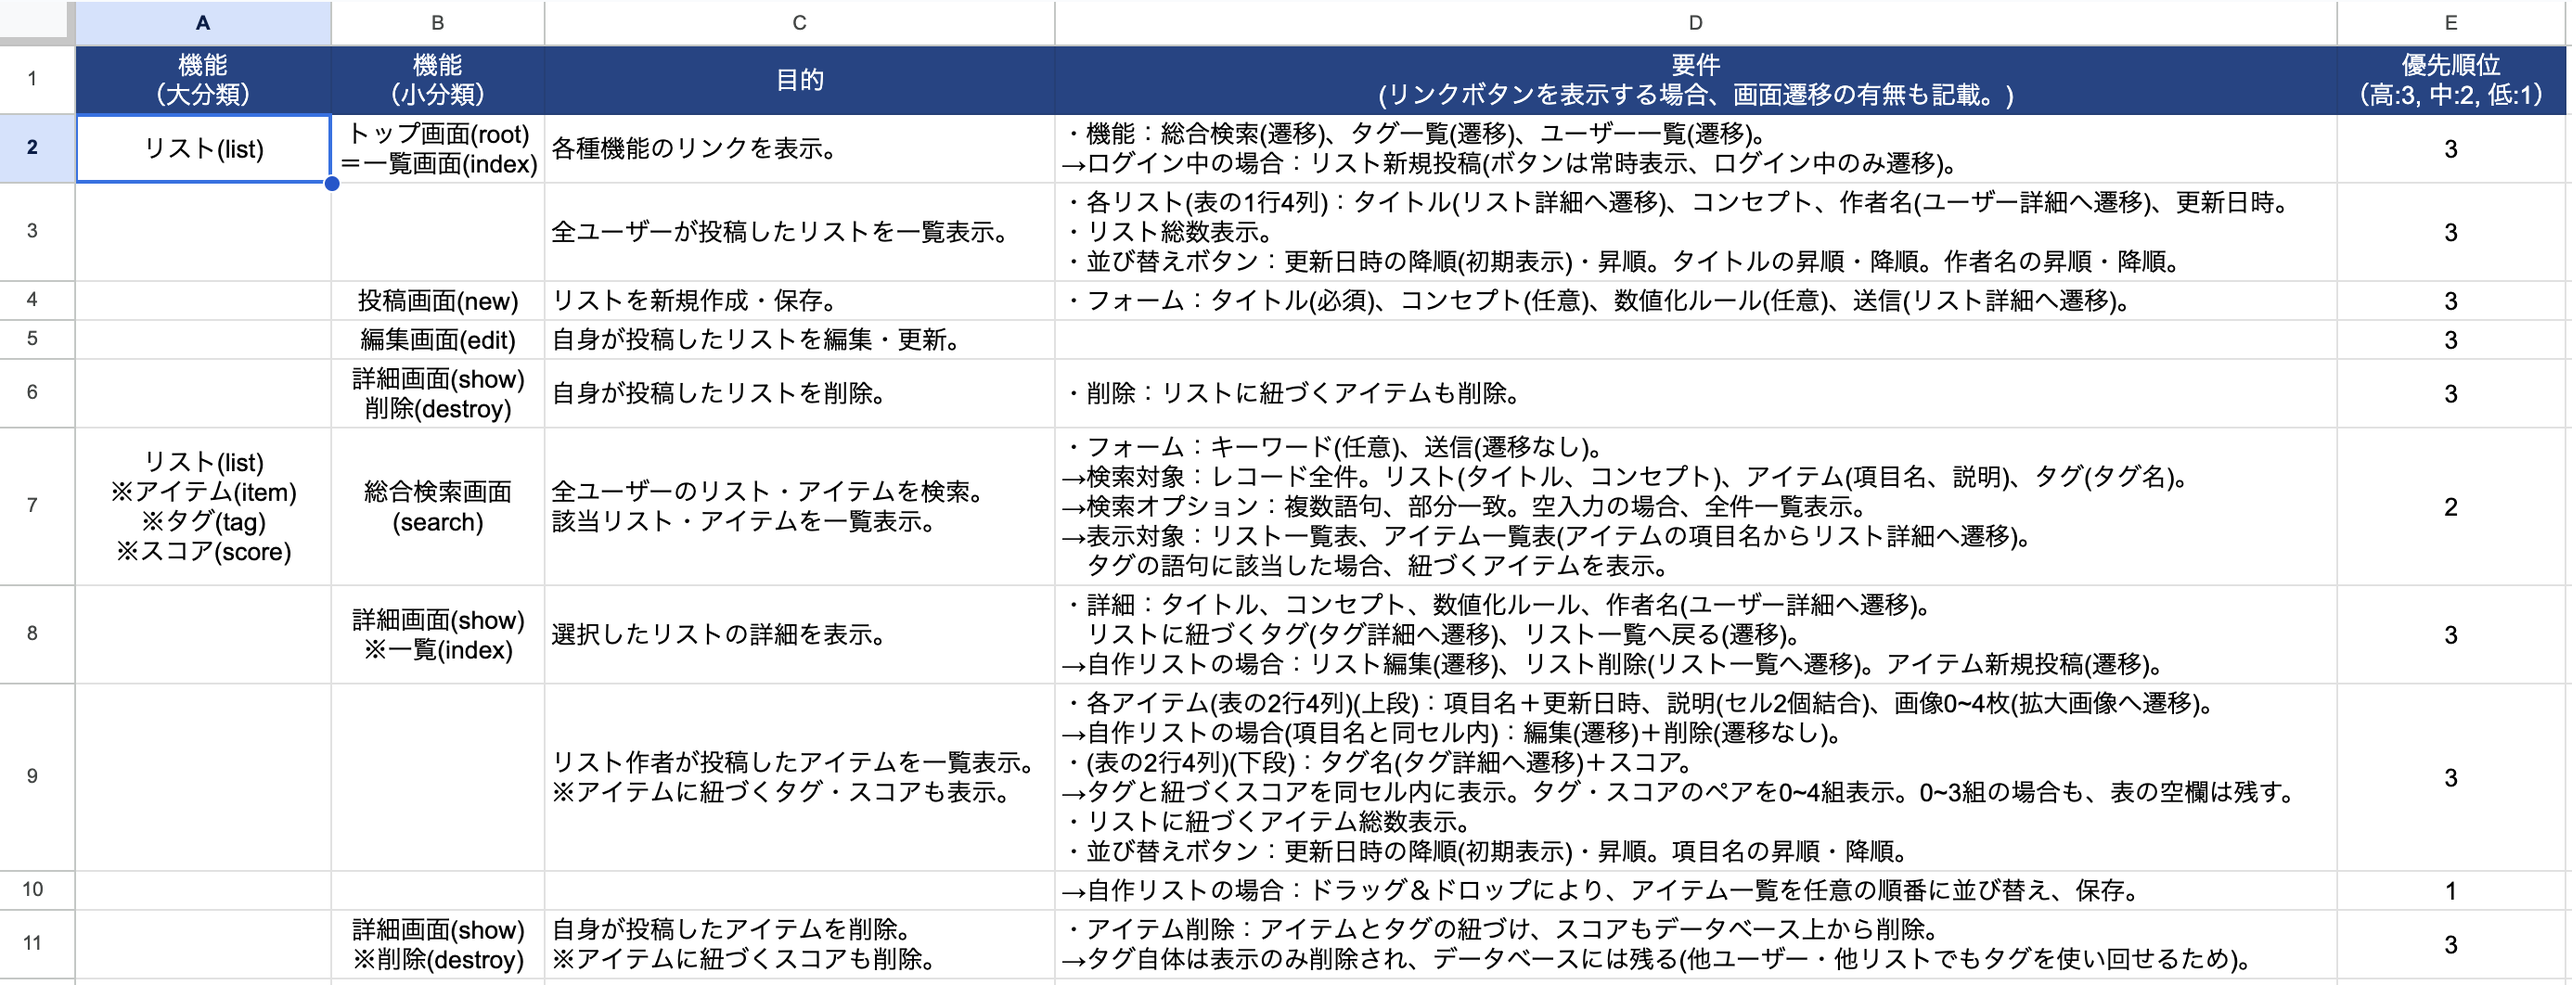
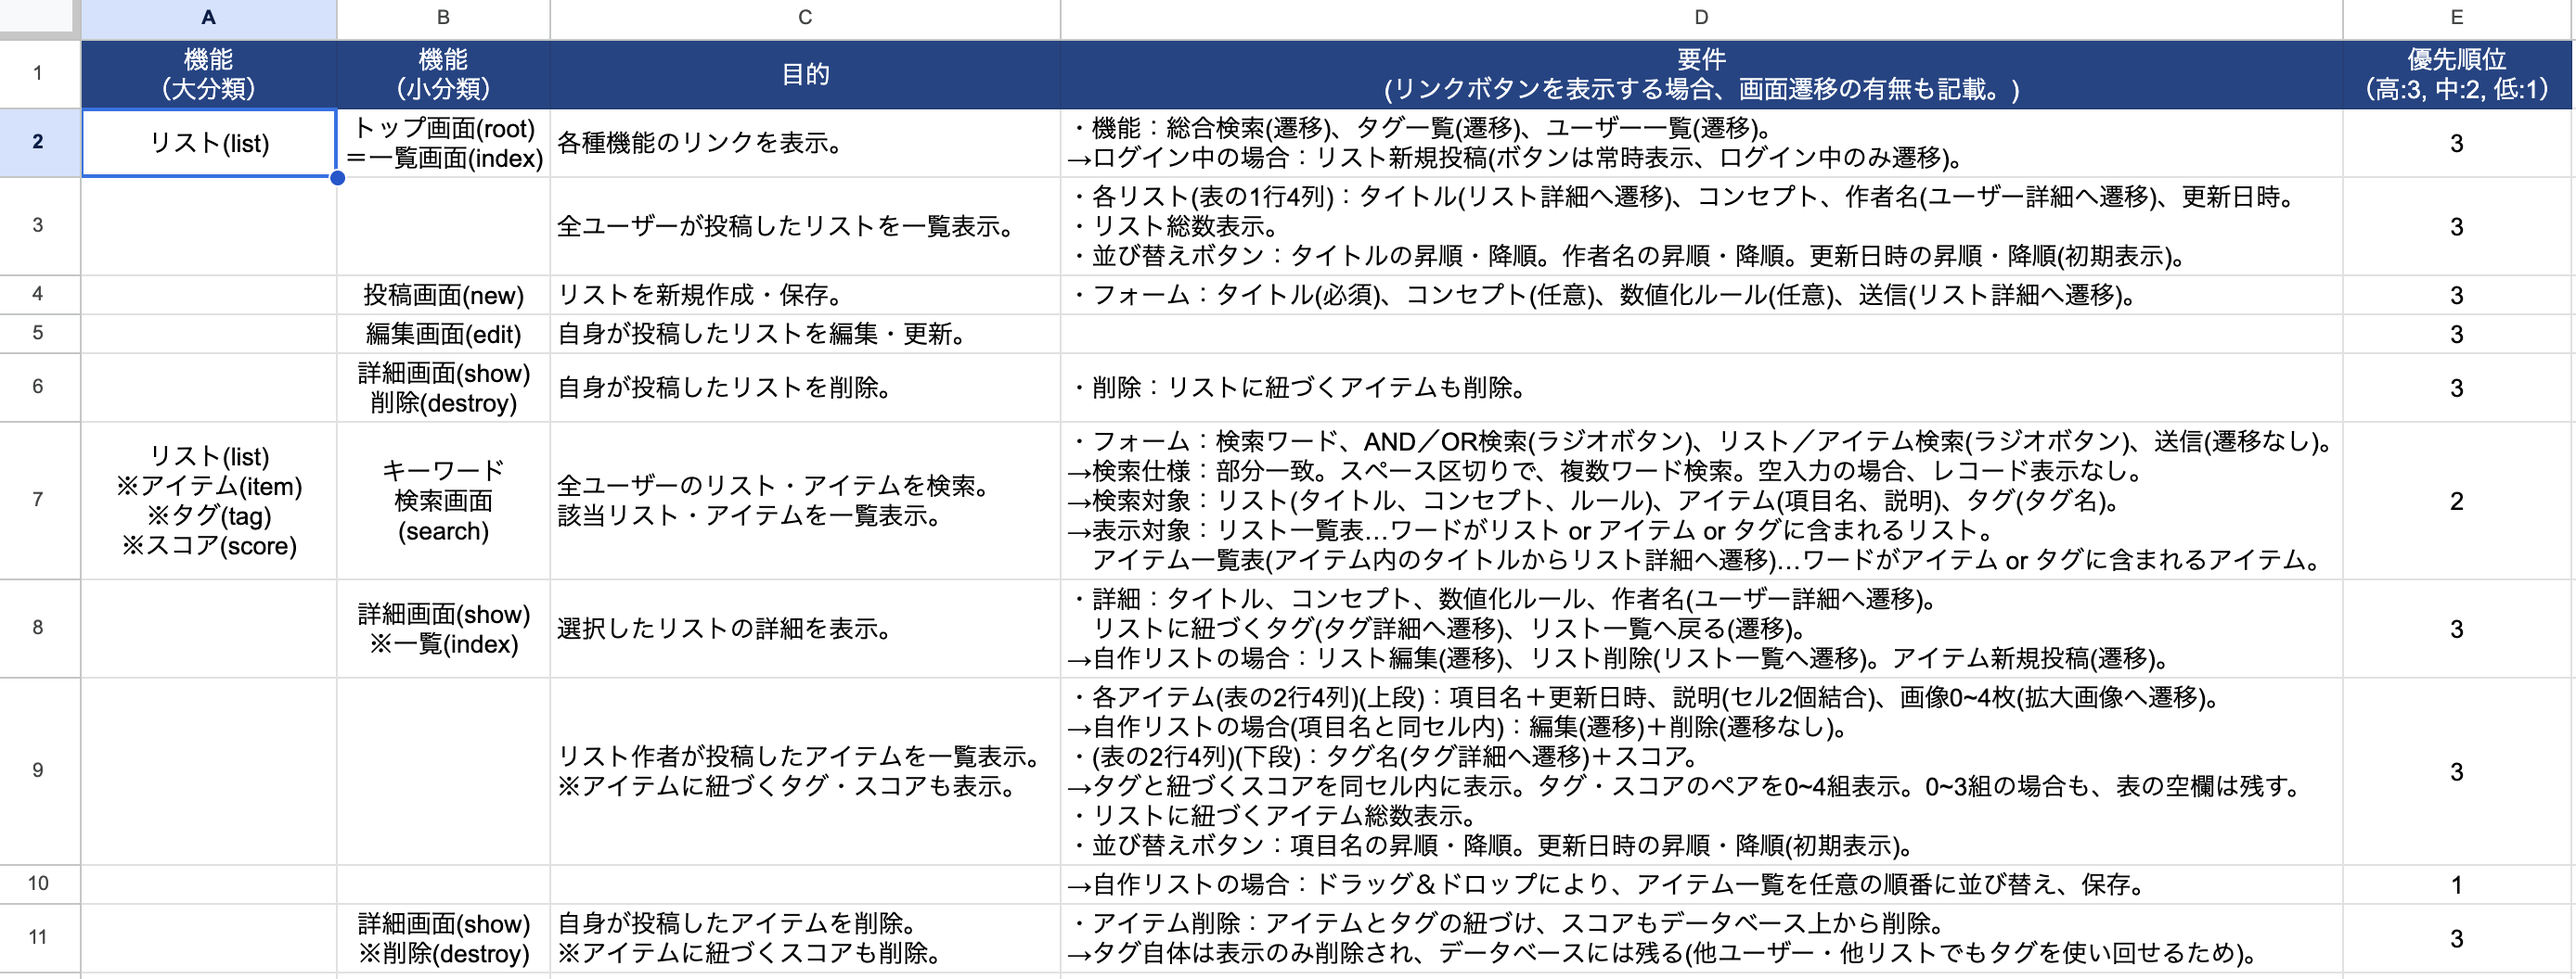
#11-2-2(修正) README

diff --git a/README.md b/README.md
@@ -21,7 +21,7 @@
 　※Basic認証(ID/Pass)は、履歴書・職務経歴書に記載。  
 <br>
 　※テスト用アカウントにログインして閲覧する皆様へ  
-　既存データ(サンプルデータ)の編集・削除はご遠慮ください。(user1~2, list1~6, item1~72)  
+　既存データ(サンプルデータ)の編集・削除はご遠慮ください。(user1〜2, list1〜6, item1〜72)  
 　新規データの投稿・編集・削除は問題ございません。データベースリセットの目安：平日22時頃  
 <br>
 <br>
@@ -36,8 +36,8 @@
 
 　(3)リストやアイテムの一覧表示を並び替える。  
 　(※未実装)自作リストの場合、ドラッグ＆ドロップにより、アイテム一覧を任意の順番に並び替え、保存できる。  
-
-　(4 ※未実装)ワード検索やタグ検索により、他ユーザーの投稿したリストやアイテムを表示する。  
+<br>
+　(4)ワード検索(※実装済み)やタグ検索(※未実装)により、他ユーザーの投稿したリストやアイテムを表示する。  
 
 　(5)他ユーザーが更新した最新のリスト名を、ユーザー一覧(※実装済み)やフォロー一覧(※未実装)で表示する。  
 
@@ -140,10 +140,10 @@
 <br>
 <br>
 
-### 2-1-4. ユーザー情報の表示、最新リストタイトルの表示
+### 2-1-4. ユーザー情報の表示、各ユーザーの最新リストタイトルの表示
 　(1)トップページ(＝リスト一覧ページ)で、ユーザー一覧をクリックする。  
 　(2)ユーザー一覧ページの並び替えボタン(列の見出し)をクリックするたびに、昇順・降順を切り替える(ユーザー名・最新リストタイトル・最新リスト更新日時)。  
-　(3)ユーザー一覧ページで、最新リストタイトルをクリックすると、リスト詳細ページを表示する。  
+　(3)ユーザー一覧ページで、最新リストタイトルをクリックすると、リスト詳細ページを表示できる。  
 <br>
 /users  
 ![画像：2-1-4(3)feature](app/assets/images/readme/2-1-4(3)feature.png)
@@ -167,10 +167,31 @@
 <br>
 <br>
 
-## 2-2. 実装予定
-### 2-2-5. ワード検索：リスト・アイテムの表示
+### 2-1-5. キーワード検索：リスト・アイテムの表示
+　(1)トップページ(＝リスト一覧ページ)で、キーワード検索をクリックする。  
+　(2)検索ワードを入力する。ワード同士をスペースで区切ると、複数のワードで検索できる。部分一致検索。  
+
+　(3)AND検索ボタンをクリックする。複数ワードを全てを含む条件で検索できる。  
+　または、OR検索ボタンをクリックする。複数ワードのいずれかを含む条件で検索できる。  
+
+　(4)リスト検索ボタンをクリックする。リストのタイトル・コンセプト・ルール、リスト内アイテムの名前・説明、タグの名前、いずれかに検索ワードが含まれていたら、該当するリストを表示できる。  
+　または、アイテム検索ボタンをクリックする。アイテムの名前・説明、タグの名前、いずれかに検索ワードが含まれていたら、該当するアイテムを表示できる。  
+
+　(5)上記(2)〜(4)を入力・選択し、送信ボタンをクリックする。  
+　リスト一覧表またはアイテム一覧表を、表示・並び替えできる。  
+　※アイテム一覧表では、各アイテム内のリストタイトルをクリックすると、リスト詳細ページを表示できる。  
+<br>
+/search  
+![画像：2-1-5(1)feature](app/assets/images/readme/2-1-5(1)feature.png)
+<br>
+<br>
+/search  
+![画像：2-1-5(2)feature](app/assets/images/readme/2-1-5(2)feature.png)
+<br>
+<br>
 <br>
 
+## 2-2. 実装予定
 ### 2-2-6. タグ検索
 　(1)タグに紐づく全アイテムの表示。  
 　(2)指定したリストとタグに紐づくアイテムの表示。指定したタグのスコアによる並び替え。  
